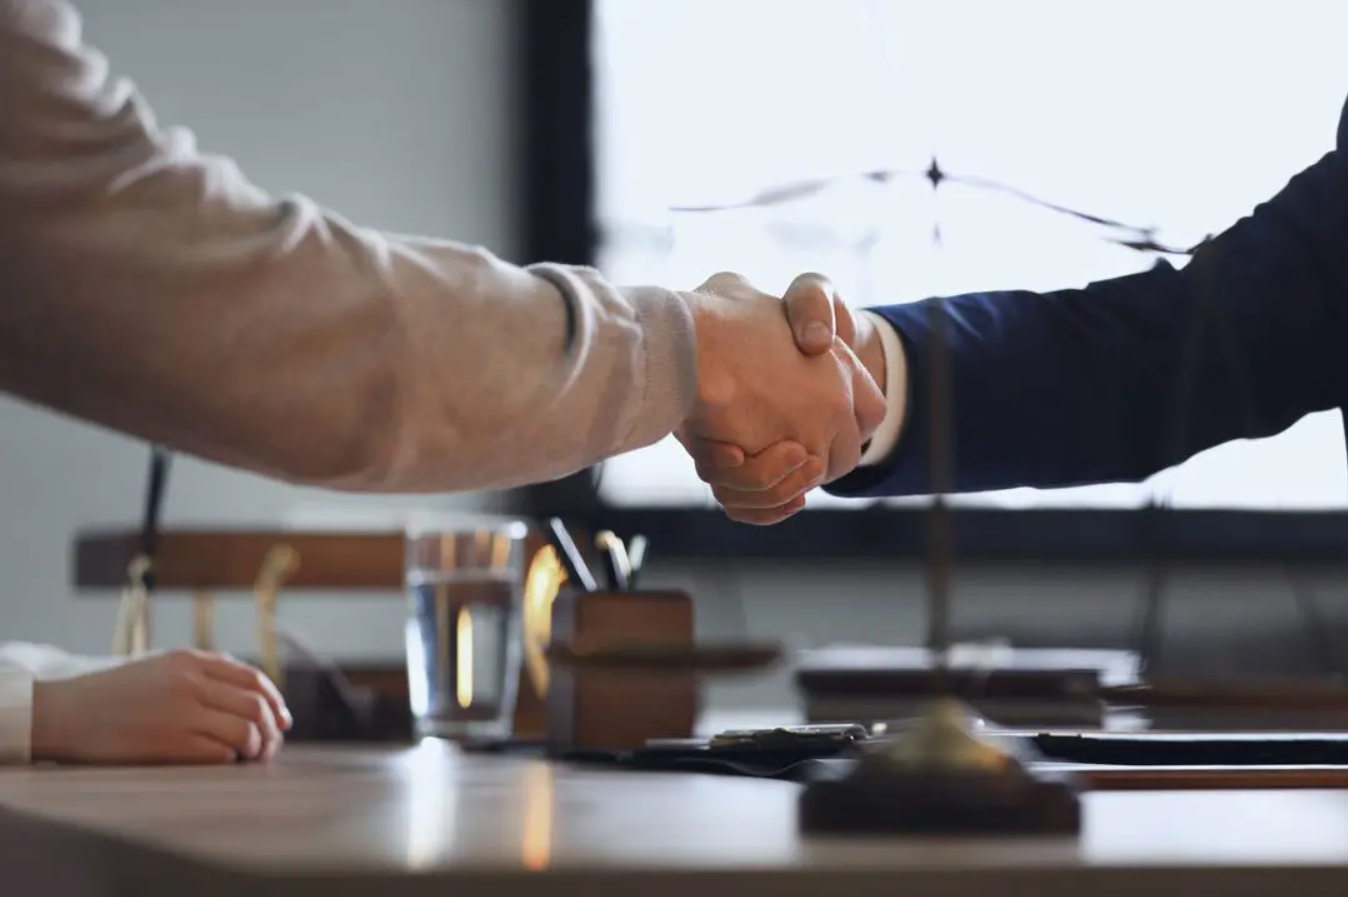
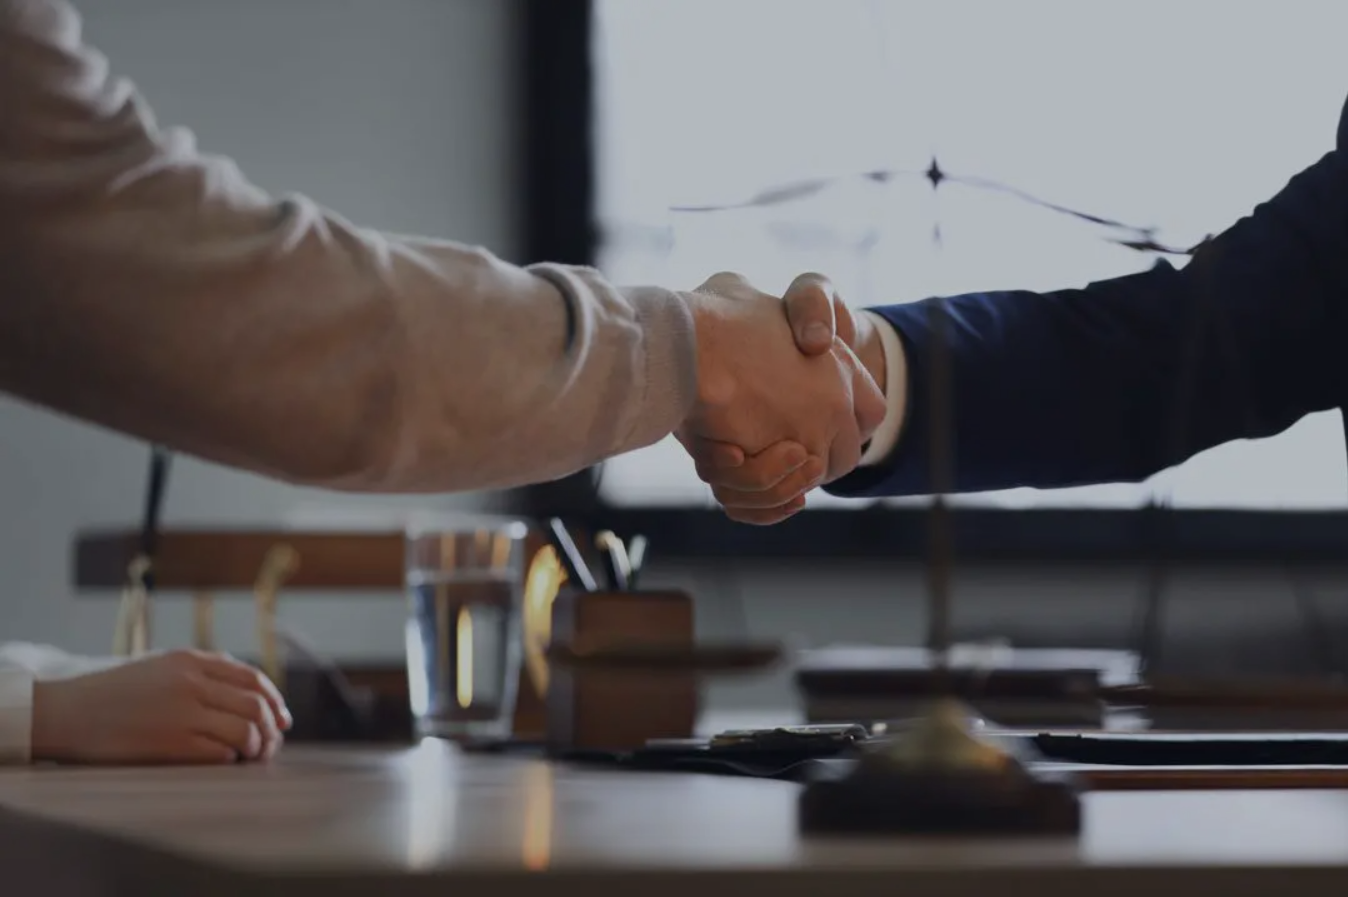
SCRUM-27 first part

diff --git a/frontend/src/App.css b/frontend/src/App.css
@@ -6,6 +6,7 @@
 }
 
 .App {
+  font-family:'Segoe UI', Tahoma, Geneva, Verdana, sans-serif;
   text-align: center;
 }
 
@@ -53,31 +54,73 @@
   padding-right: 20px;
 }
 
-.headerbutton {
+button {
   width: 70px;
   height: 40px;
   border: 3px solid var(--light-turquoise);
   border-radius: 7px;
 }
 
-.header #loginButton {
+button.darkbutton {
   background-color: var(--light-turquoise);
   color: var(--off-white);
 }
 
-.header #loginButton:hover {
+button.darkbutton:hover {
   background-color: var(--off-white);
   color: var(--dark-turquoise);
 }
 
-.header #signupButton {
+button.lightbutton {
   background-color: var(--off-white);
   color: var(--dark-turquoise);
 }
 
-.header #signupButton:hover {
+button.lightbutton:hover {
   background-color: var(--light-turquoise);
   color: var(--off-white);
+}
+
+/*******
+ * landing page part 1
+ ********/
+
+#title {
+  position: relative;
+}
+
+#title #titleimage {
+  width: 100%;
+}
+
+#title .titletext {
+  color: var(--off-white);
+  position: absolute;
+  top: 45%;
+  left: 50%;
+  transform: translate(-50%, -50%);
+  display: flex;
+  flex-direction: column;
+  align-items: center;
+  row-gap: 10px;
+}
+
+.titletext h1 {
+  font-size: 64px;
+  margin: 0px;
+}
+
+.titletext h3 {
+  font-weight: normal;
+  font-size: 20px;
+  margin: 0px;
+}
+
+.titletext button {
+  width: 20%;
+  height: 70px;
+  font-size: 24px;
+  margin-top: 20px;
 }
 
 /*******
@@ -85,11 +128,11 @@
  ********/
 
  .footer {
-  position: fixed;
   left: 0;
   bottom: 0;
   width: 100%;
   color: var(--dark-turquoise);
+  background-color: var(--off-white);
   border-top: 2px solid var(--dark-turquoise);
   display: flex;
   justify-content: space-around;

diff --git a/frontend/src/pages/Landing.tsx b/frontend/src/pages/Landing.tsx
@@ -1,8 +1,17 @@
+import handshake from '../images/handshake.png';
+import { Link, useNavigate } from 'react-router-dom';
+
 const Landing = () => {
+  const navigate = useNavigate();
+
   return(
-    <div>
-      <h1>Landing</h1>
-      <h3>work in progress</h3>
+    <div id="title">
+      <img src={handshake} id="titleimage" alt="handshake" />
+      <div className="titletext">
+        <h1>Encourage sustainability</h1>
+        <h3>Borrow instead of buying, lend instead of throwing away</h3>
+        <button className="darkbutton" onClick={() => navigate('/shop')}>Discover</button>
+      </div>
     </div>
   );
 };

diff --git a/frontend/src/App.tsx b/frontend/src/App.tsx
@@ -8,6 +8,7 @@ import About from './pages/About.tsx';
 import Contact from './pages/Contact.tsx';
 import Questions from './pages/Questions.tsx';
 import Terms from './pages/Terms.tsx';
+import Shop from './pages/Shop.tsx';
 
 const App = () => {
   return (
@@ -20,6 +21,7 @@ const App = () => {
           <Route path="/contact" element={<Contact />} />
           <Route path="/questions" element={<Questions />} />
           <Route path="/termsandservices" element={<Terms />} />
+          <Route path="/shop" element={<Shop />} />
         </Routes>
       </div>
       <Footer />

diff --git a/frontend/src/components/NavBar.tsx b/frontend/src/components/NavBar.tsx
@@ -24,10 +24,10 @@ const NavBar = () => {
           </div>
         </div>
         <div id="buttons">
-          <button className="headerbutton" id="loginButton"> 
+          <button className="headerbutton darkbutton"> 
             Log in
           </button>
-          <button className="headerbutton" id="signupButton"> 
+          <button className="headerbutton lightbutton"> 
             Sign up
           </button>
         </div>

diff --git a/frontend/src/pages/Shop.tsx b/frontend/src/pages/Shop.tsx
@@ -1,0 +1,10 @@
+const Shop = () => {
+  return(
+    <div>
+      <h1>Shop</h1>
+      <h3>work in progress</h3>
+    </div>
+  );
+};
+
+export default Shop;
